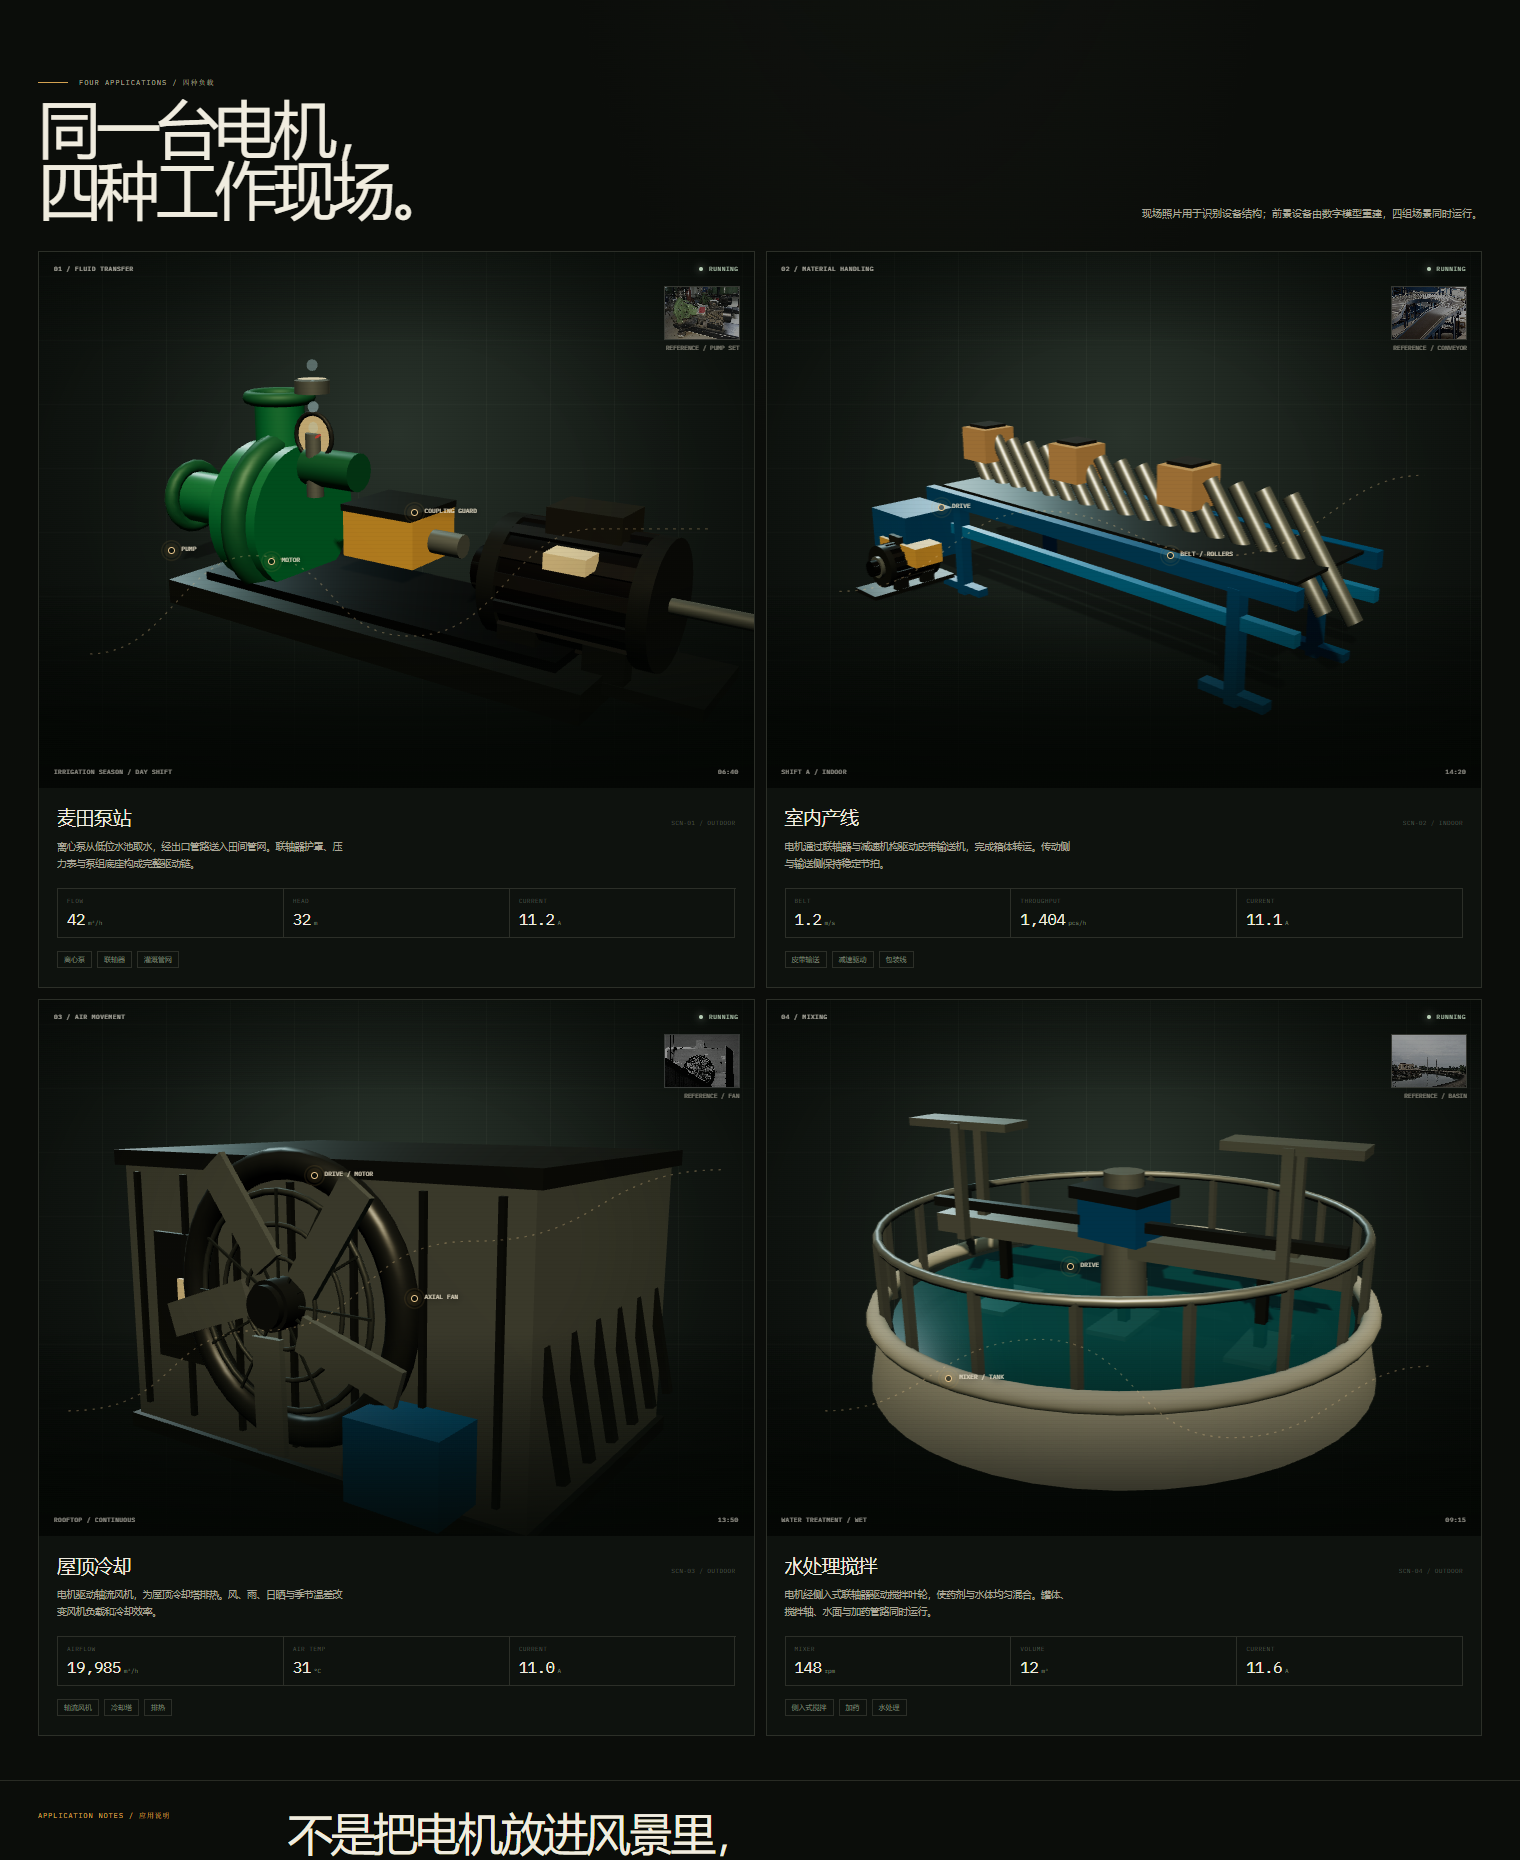
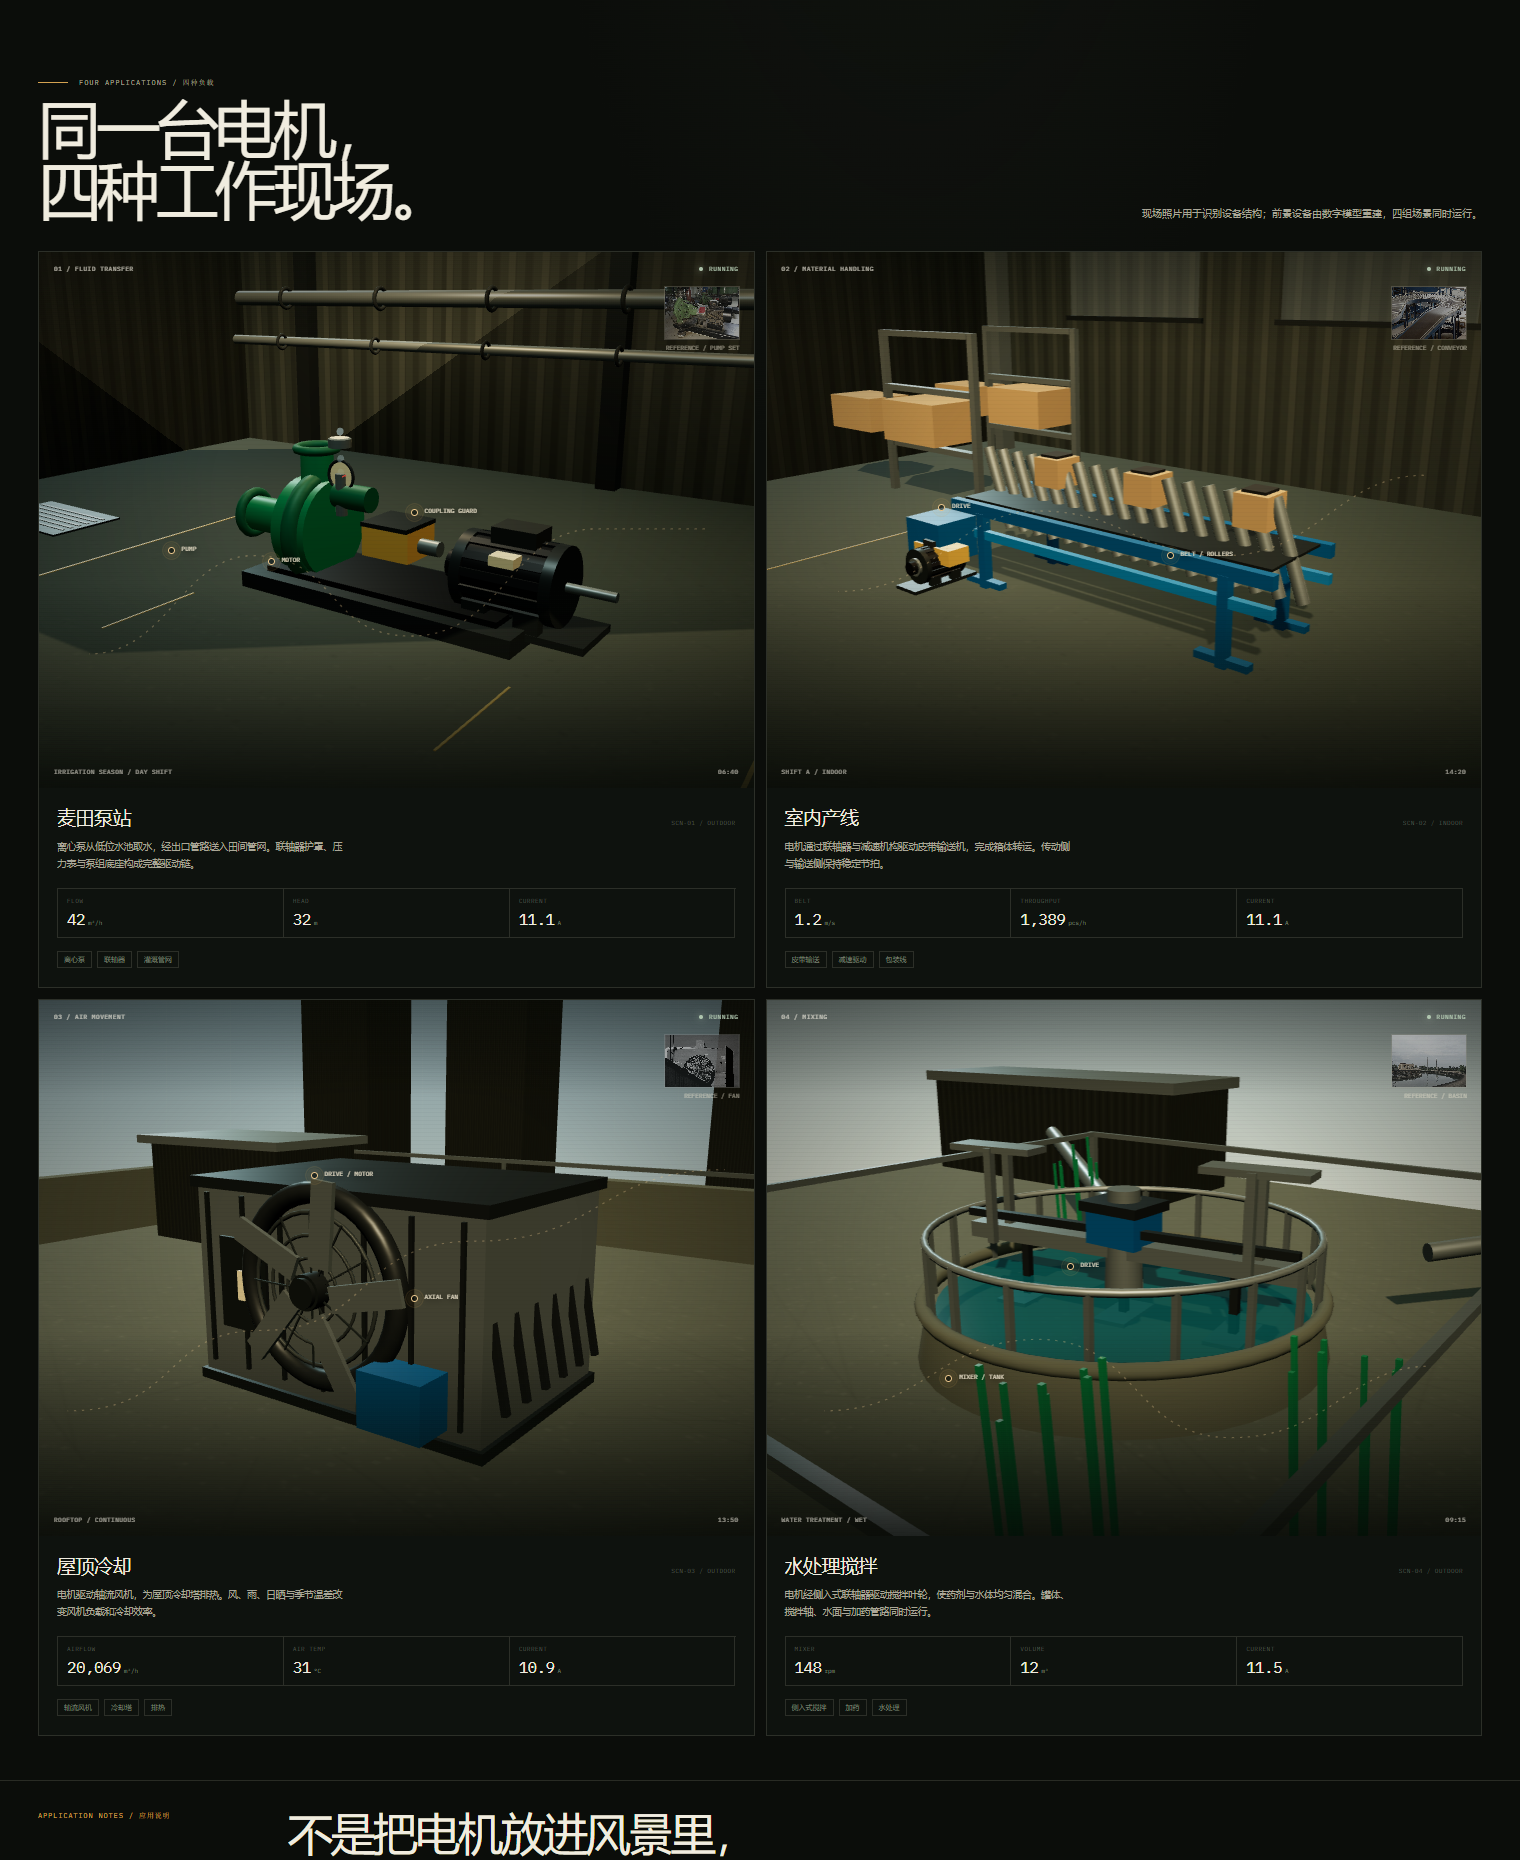
Add modular 3D industrial environments to application models

diff --git a/src/scenarios/scenes3d.js b/src/scenarios/scenes3d.js
@@ -21,7 +21,66 @@ const M = {
   terminal: new THREE.MeshStandardMaterial({ color: 0x31332f, metalness: 0.35, roughness: 0.5 }),
   nameplate: new THREE.MeshStandardMaterial({ color: 0xd8c69b, metalness: 0.2, roughness: 0.5 }),
   grille: new THREE.MeshStandardMaterial({ color: 0x3e4645, metalness: 0.55, roughness: 0.35 }),
+  wall: new THREE.MeshStandardMaterial({ color: 0x6a7069, metalness: 0.18, roughness: 0.78 }),
+  wallDark: new THREE.MeshStandardMaterial({ color: 0x424a45, metalness: 0.22, roughness: 0.8 }),
+  floor: new THREE.MeshStandardMaterial({ color: 0x5c615b, roughness: 0.88 }),
+  glass: new THREE.MeshPhysicalMaterial({ color: 0x9fb7b8, metalness: 0.05, roughness: 0.08, transparent: true, opacity: 0.22, side: THREE.DoubleSide }),
+  sign: new THREE.MeshBasicMaterial({ color: 0xc79a3c }),
+  light: new THREE.MeshBasicMaterial({ color: 0xffe4b8, toneMapped: false }),
 };
+
+// Subtle procedural textures keep the modular environment from reading as flat primitives.
+function canvasTexture(w, h, paint, repeatX = 1, repeatY = 1) {
+  const c = document.createElement('canvas');
+  c.width = w;
+  c.height = h;
+  paint(c.getContext('2d'), w, h);
+  const t = new THREE.CanvasTexture(c);
+  t.colorSpace = THREE.SRGBColorSpace;
+  t.wrapS = t.wrapT = THREE.RepeatWrapping;
+  t.repeat.set(repeatX, repeatY);
+  return t;
+}
+const concreteMap = canvasTexture(256, 256, (ctx, w, h) => {
+  ctx.fillStyle = '#72766d';
+  ctx.fillRect(0, 0, w, h);
+  for (let i = 0; i < 1300; i++) {
+    const v = 90 + Math.random() * 80;
+    ctx.fillStyle = `rgba(${v},${v + 3},${v - 4},${0.1 + Math.random() * 0.16})`;
+    const s = 0.5 + Math.random() * 2.4;
+    ctx.fillRect(Math.random() * w, Math.random() * h, s, s);
+  }
+  for (let i = 0; i < 14; i++) {
+    ctx.strokeStyle = `rgba(45,48,43,${0.06 + Math.random() * 0.05})`;
+    ctx.beginPath();
+    ctx.moveTo(Math.random() * w, Math.random() * h);
+    ctx.lineTo(Math.random() * w, Math.random() * h);
+    ctx.stroke();
+  }
+}, 4, 4);
+const corrugatedMap = canvasTexture(256, 256, (ctx, w, h) => {
+  ctx.fillStyle = '#5c625c';
+  ctx.fillRect(0, 0, w, h);
+  for (let x = 0; x < w; x += 12) {
+    ctx.fillStyle = x % 24 === 0 ? 'rgba(255,250,230,.1)' : 'rgba(0,0,0,.14)';
+    ctx.fillRect(x, 0, 5, h);
+    ctx.fillStyle = 'rgba(0,0,0,.08)';
+    ctx.fillRect(x + 5, 0, 1, h);
+  }
+}, 3, 1);
+const floorMap = canvasTexture(256, 256, (ctx, w, h) => {
+  ctx.fillStyle = '#535a53';
+  ctx.fillRect(0, 0, w, h);
+  for (let i = 0; i < 600; i++) {
+    const v = 55 + Math.random() * 60;
+    ctx.fillStyle = `rgba(${v},${v + 4},${v - 3},.18)`;
+    ctx.fillRect(Math.random() * w, Math.random() * h, 1 + Math.random() * 3, 1 + Math.random() * 3);
+  }
+}, 5, 5);
+M.floor = new THREE.MeshStandardMaterial({ map: floorMap, color: 0xa8ada2, roughness: 0.85 });
+M.wall = new THREE.MeshStandardMaterial({ map: corrugatedMap, color: 0x9aa09a, roughness: 0.72, metalness: 0.2 });
+M.wallDark = new THREE.MeshStandardMaterial({ map: corrugatedMap, color: 0x606862, roughness: 0.78, metalness: 0.2 });
+M.concrete = new THREE.MeshStandardMaterial({ map: concreteMap, color: 0xb0b2a7, roughness: 0.9 });
 
 function add(parent, geo, material, x = 0, y = 0, z = 0, rx = 0, ry = 0, rz = 0, cast = true) {
   const m = new THREE.Mesh(geo, material);
@@ -36,8 +95,141 @@ const box = (p, w, h, d, m, x, y, z, rx = 0, ry = 0, rz = 0, cast = true) => add
 const cyl = (p, r1, r2, h, m, x, y, z, rx = 0, ry = 0, rz = 0, cast = true, seg = 20) => add(p, new THREE.CylinderGeometry(r1, r2, h, seg), m, x, y, z, rx, ry, rz, cast);
 
 // ---------------------------------------------------------------------------
-// Reference-driven machinery: black finned motor
+// Modular reference-driven environments
 // ---------------------------------------------------------------------------
+function addLamp(parent, x, y, z, cool = false) {
+  box(parent, 0.62, 0.035, 0.12, M.darkSteel, x, y + 0.11, z, 0, 0, 0, false);
+  box(parent, 0.56, 0.012, 0.08, M.light, x, y + 0.075, z, 0, 0, 0, false);
+  const l = new THREE.PointLight(cool ? 0xcfe6e3 : 0xffd6a1, 11, 6, 2);
+  l.position.set(x, y - 0.02, z);
+  parent.add(l);
+}
+
+function pipeRun(parent, x1, y1, z1, x2, y2, z2, radius = 0.045, material = M.steel) {
+  const a = new THREE.Vector3(x1, y1, z1);
+  const b = new THREE.Vector3(x2, y2, z2);
+  const d = b.clone().sub(a);
+  const m = cyl(parent, radius, radius, d.length(), material, (x1 + x2) / 2, (y1 + y2) / 2, (z1 + z2) / 2, 0, 0, 0, true, 12);
+  m.quaternion.setFromUnitVectors(new THREE.Vector3(0, 1, 0), d.normalize());
+  return m;
+}
+
+function makePumpRoom(scene) {
+  const g = new THREE.Group();
+  add(g, new THREE.PlaneGeometry(10, 9), M.floor, 0, 0.002, 0, -Math.PI / 2, 0, 0, false);
+  box(g, 9.4, 3.5, 0.18, M.wall, 0, 1.75, -3.1);
+  for (const x of [-4.1, 4.1]) box(g, 0.18, 3.5, 7.2, M.wallDark, x, 1.75, 0.2);
+  box(g, 9.4, 0.18, 7.2, M.wallDark, 0, 3.48, 0.2);
+  for (const x of [-3.1, 0, 3.1]) box(g, 0.16, 3.3, 0.16, M.darkSteel, x, 1.65, -2.95);
+  box(g, 9, 0.18, 0.2, M.darkSteel, 0, 2.95, -2.95);
+  pipeRun(g, -3.9, 1.45, -2.86, 3.9, 1.45, -2.86, 0.07);
+  pipeRun(g, -3.9, 1.05, -2.78, 3.9, 1.05, -2.78, 0.045);
+  for (let x = -3.2; x <= 3.3; x += 1.1) {
+    add(g, new THREE.TorusGeometry(0.09, 0.018, 6, 16), M.darkSteel, x, 1.45, -2.78, 0, Math.PI / 2, 0, false);
+    add(g, new THREE.TorusGeometry(0.065, 0.014, 6, 16), M.darkSteel, x, 1.05, -2.7, 0, Math.PI / 2, 0, false);
+  }
+  box(g, 8.6, 0.08, 0.42, M.darkSteel, 0, 2.35, -2.82);
+  for (let x = -4; x <= 4; x += 0.3) box(g, 0.035, 0.07, 0.36, M.steel, x, 2.4, -2.82, 0, 0, 0, false);
+  box(g, 1.1, 1.5, 0.42, M.wallDark, 3.4, 0.75, -2.72);
+  box(g, 0.06, 0.62, 0.26, M.sign, 3.4, 0.72, -2.49);
+  box(g, 0.06, 0.3, 0.3, M.darkSteel, 3.4, 1.12, -2.49);
+  addLamp(g, -1.7, 3.0, -1.3);
+  addLamp(g, 1.5, 3.0, -1.3);
+  addLamp(g, 0, 3.0, 1.1, true);
+  for (const x of [-1.8, 1.8]) {
+    box(g, 0.015, 0.003, 3.0, M.yellow, x, 0.008, 0.8, 0, 0, 0, false);
+  }
+  for (let i = 0; i < 4; i++) box(g, 0.01, 0.003, 0.55, M.yellow, -2.7 + i * 1.8, 0.009, 0.8, 0, 0, 0, false);
+  box(g, 0.8, 0.012, 0.5, M.darkSteel, -2.8, 0.012, 0.1, 0, 0, 0, false);
+  for (let i = 0; i < 6; i++) box(g, 0.72, 0.005, 0.02, M.steel, -2.8, 0.02, -0.05 + i * 0.06, 0, 0, 0, false);
+  box(g, 0.24, 0.04, 0.15, M.sign, 2.7, 1.55, -2.95);
+  box(g, 0.04, 0.04, 0.4, M.darkSteel, 2.7, 1.75, -2.8);
+  scene.add(g);
+}
+
+function makeConveyorHall(scene) {
+  const g = new THREE.Group();
+  add(g, new THREE.PlaneGeometry(11, 9), M.floor, 0, 0.002, 0, -Math.PI / 2, 0, 0, false);
+  box(g, 10, 3.5, 0.18, M.wall, 0, 1.75, -3.4);
+  for (const x of [-4.8, 4.8]) box(g, 0.18, 3.5, 8, M.wallDark, x, 1.75, 0);
+  // Window bands on the back wall.
+  for (const x of [-2.6, 0, 2.6]) {
+    const pane = add(g, new THREE.PlaneGeometry(1.7, 1.15), M.glass, x, 2.1, -3.3, 0, 0, 0, false);
+    pane.userData.window = true;
+    box(g, 1.8, 0.05, 0.06, M.darkSteel, x, 2.7, -3.3);
+    box(g, 1.8, 0.05, 0.06, M.darkSteel, x, 1.5, -3.3);
+  }
+  // A single rear truss leaves the top of the frame open and readable.
+  for (const z of [-2.9]) {
+    box(g, 9.6, 0.13, 0.22, M.steel, 0, 3.15, z);
+    for (const x of [-4.2, 4.2]) box(g, 0.18, 3.0, 0.18, M.steel, x, 1.5, z);
+    for (let x = -3.8; x < 3.9; x += 0.95) {
+      box(g, 0.05, 0.75, 0.05, M.steel, x, 3.35, z, 0, 0, 0.62, false);
+      box(g, 0.05, 0.75, 0.05, M.steel, x + 0.45, 3.35, z, 0, 0, -0.62, false);
+    }
+  }
+  for (const x of [-2.6, 0, 2.6]) addLamp(g, x, 3.05, 0.2);
+  // Racking on the left and pallets at the back.
+  for (const z of [-2.1, -0.9]) {
+    for (const x of [-3.5, -2.3]) box(g, 0.06, 1.45, 0.06, M.steel, x, 0.72, z, 0, 0, 0, false);
+    for (const y of [0.45, 0.95, 1.42]) box(g, 1.15, 0.05, 0.08, M.steel, -2.9, y, z, 0, 0, 0, false);
+    box(g, 0.7, 0.35, 0.48, M.cardboard, -2.9, 0.7, z, 0, 0, 0);
+    box(g, 0.62, 0.3, 0.42, M.cardboard, -3.8, 0.7, z, 0, 0, 0);
+  }
+  box(g, 1.2, 0.95, 0.55, M.darkSteel, 3.5, 0.475, -2.5);
+  box(g, 0.8, 0.06, 0.4, M.sign, 3.5, 0.97, -2.5);
+  for (const [x, z] of [[-1.7, 1.9], [2.4, 1.9]]) box(g, 0.34, 0.55, 0.4, M.wood, x, 0.275, z, 0, 0, 0);
+  for (const x of [-2.2, 2.2]) box(g, 0.012, 0.003, 4.2, M.yellow, x, 0.008, 0.2, 0, 0, 0, false);
+  scene.add(g);
+}
+
+function makeRoof(scene) {
+  const g = new THREE.Group();
+  add(g, new THREE.PlaneGeometry(12, 10), M.concrete, 0, 0.002, 0, -Math.PI / 2, 0, 0, false);
+  box(g, 10.5, 0.65, 0.2, M.concrete, 0, 0.325, -4.2);
+  box(g, 10.5, 0.65, 0.2, M.concrete, 0, 0.325, 4.2);
+  for (const x of [-5.15, 5.15]) box(g, 0.2, 0.65, 8.4, M.concrete, x, 0.325, 0);
+  for (const x of [-4.5, -1.5, 1.5, 4.5]) {
+    box(g, 0.035, 0.8, 0.035, M.steel, x, 0.4, 3.9, 0, 0, 0, false);
+    box(g, 0.035, 0.8, 0.035, M.steel, x, 0.4, -3.9, 0, 0, 0, false);
+  }
+  for (const z of [-3.9, 3.9]) box(g, 9.2, 0.04, 0.04, M.steel, 0, 0.8, z, 0, 0, 0, false);
+  box(g, 1.8, 1.0, 1.1, M.wallDark, -3.6, 0.5, -2.4);
+  box(g, 2.0, 0.08, 1.3, M.steel, -3.6, 1.02, -2.4);
+  box(g, 1.25, 0.75, 0.9, M.wallDark, 3.8, 0.375, -1.8);
+  box(g, 1.4, 0.06, 1.0, M.steel, 3.8, 0.76, -1.8);
+  for (const x of [-4.5, 4.5]) {
+    cyl(g, 0.12, 0.12, 0.8, M.steel, x, 0.4, -3.4, 0, 0, 0, true, 14);
+    add(g, new THREE.TorusGeometry(0.13, 0.018, 6, 16), M.darkSteel, x, 0.8, -3.4, Math.PI / 2, 0, 0, false);
+  }
+  for (const [x, z, h] of [[-4.8, -5.6, 3.2], [-2.8, -6.2, 4.2], [0.5, -6.6, 2.8], [3.0, -6.0, 3.8], [5.4, -5.5, 2.6]]) {
+    box(g, 1.15, h, 1.0, M.wallDark, x, h / 2, z, 0, 0, 0, false);
+  }
+  scene.add(g);
+}
+
+function makeTreatmentDeck(scene) {
+  const g = new THREE.Group();
+  add(g, new THREE.PlaneGeometry(12, 10), M.concrete, 0, 0.002, 0, -Math.PI / 2, 0, 0, false);
+  box(g, 3.8, 1.2, 1.2, M.wallDark, -3.8, 0.6, -3.8);
+  box(g, 4.0, 0.12, 1.35, M.steel, -3.8, 1.23, -3.8);
+  box(g, 2.6, 1.5, 1.4, M.wall, 3.3, 0.75, -3.9);
+  box(g, 2.8, 0.12, 1.55, M.steel, 3.3, 1.53, -3.9);
+  for (const [x, z] of [[-2.1, 2.7], [2.1, 2.7], [-2.1, -2.2], [2.1, -2.2]]) {
+    box(g, 0.06, 0.85, 0.06, M.steel, x, 0.43, z, 0, 0, 0, false);
+  }
+  for (const z of [2.7, -2.2]) box(g, 4.3, 0.045, 0.045, M.steel, 0, 0.85, z, 0, 0, 0, false);
+  for (const x of [-2.1, 2.1]) box(g, 0.045, 0.045, 4.9, M.steel, x, 0.85, 0.25, 0, 0, 0, false);
+  pipeRun(g, -3.5, 0.65, -3.1, -1.1, 0.48, -1.2, 0.08);
+  pipeRun(g, 3.0, 0.7, -3.1, 1.4, 0.5, -1.3, 0.06);
+  for (const [x, z] of [[-1.8, 1.8], [1.9, 1.2], [-1.6, -1.4], [1.3, 2.0]]) {
+    for (let i = 0; i < 8; i++) {
+      const a = (i / 8) * Math.PI * 2;
+      box(g, 0.018, 0.7 + Math.random() * 0.5, 0.018, M.green, x + Math.cos(a) * 0.18, 0.35, z + Math.sin(a) * 0.18, 0, 0, 0.08, false);
+    }
+  }
+  scene.add(g);
+}
 function makeMotor(scale = 1) {
   const g = new THREE.Group();
   const bodyR = 0.17;
@@ -252,13 +444,13 @@ class ReferenceScene {
     this.renderer.setPixelRatio(Math.min(window.devicePixelRatio || 1, 1.4));
     this.renderer.outputColorSpace = THREE.SRGBColorSpace;
     this.renderer.toneMapping = THREE.ACESFilmicToneMapping;
-    this.renderer.toneMappingExposure = 1.14;
+    this.renderer.toneMappingExposure = 1.28;
     this.renderer.shadowMap.enabled = true;
     this.renderer.shadowMap.type = THREE.PCFSoftShadowMap;
     this.scene = new THREE.Scene();
     this.camera = new THREE.PerspectiveCamera(36, 4 / 3, 0.02, 20);
-    this.scene.add(new THREE.HemisphereLight(0xcdd8cb, 0x28251c, 0.85));
-    this.scene.add(new THREE.AmbientLight(0xb7b9a7, 0.42));
+    this.scene.add(new THREE.HemisphereLight(0xcdd8cb, 0x28251c, 0.95));
+    this.scene.add(new THREE.AmbientLight(0xb7b9a7, 0.52));
     const key = new THREE.DirectionalLight(0xffe2b9, 3.2);
     key.position.set(2.5, 4, 3);
     key.castShadow = true;
@@ -285,33 +477,37 @@ class ReferenceScene {
 
   build() {
     if (this.type === 'pump') {
+      makePumpRoom(this.scene);
       this.model = makePumpSet();
       this.model.position.set(0, 0, 0);
       this.scene.add(this.model);
-      this.camera.position.set(1.55, 1.05, 2.15);
-      this.camera.lookAt(0, 0.36, 0);
-      this.camera.fov = 35;
+      this.camera.position.set(2.15, 1.48, 3.1);
+      this.camera.lookAt(0, 0.42, 0);
+      this.camera.fov = 37;
     } else if (this.type === 'conveyor') {
+      makeConveyorHall(this.scene);
       this.model = makeConveyor();
       this.model.position.set(0, 0, 0);
       this.scene.add(this.model);
-      this.camera.position.set(2.5, 1.55, 2.65);
-      this.camera.lookAt(0, 0.5, 0);
-      this.camera.fov = 36;
+      this.camera.position.set(2.65, 1.72, 3.25);
+      this.camera.lookAt(0, 0.52, 0);
+      this.camera.fov = 38;
     } else if (this.type === 'cooling') {
+      makeRoof(this.scene);
       this.model = makeCoolingTower();
       this.model.position.set(0, 0, 0);
       this.scene.add(this.model);
-      this.camera.position.set(1.8, 1.25, 2.55);
-      this.camera.lookAt(0, 0.65, 0);
-      this.camera.fov = 36;
+      this.camera.position.set(2.35, 1.55, 3.2);
+      this.camera.lookAt(0, 0.62, 0);
+      this.camera.fov = 38;
     } else {
+      makeTreatmentDeck(this.scene);
       this.model = makeWaterBasin();
       this.model.position.set(0, 0, 0);
       this.scene.add(this.model);
-      this.camera.position.set(2.3, 1.65, 2.9);
+      this.camera.position.set(2.7, 1.85, 3.45);
       this.camera.lookAt(0, 0.45, 0);
-      this.camera.fov = 38;
+      this.camera.fov = 39;
     }
     this.camera.updateProjectionMatrix();
   }

diff --git a/src/scenarios/photo.css b/src/scenarios/photo.css
@@ -147,6 +147,19 @@ h1 em { color: var(--accent); font-style: normal; }
     radial-gradient(ellipse at 50% 34%, #29332b 0%, #141a15 52%, #090c09 100%);
   isolation: isolate;
 }
+.app-pump .visual,
+.app-conveyor .visual {
+  background:
+    linear-gradient(180deg, #2d3430, #0b0f0c 72%);
+}
+.app-cooling .visual {
+  background:
+    linear-gradient(180deg, #8099a0 0%, #c2c8bb 56%, #6f776c 100%);
+}
+.app-water .visual {
+  background:
+    linear-gradient(180deg, #a9b8b4 0%, #d4d3c2 48%, #737e6c 100%);
+}
 .visual::before {
   content: "";
   position: absolute;
